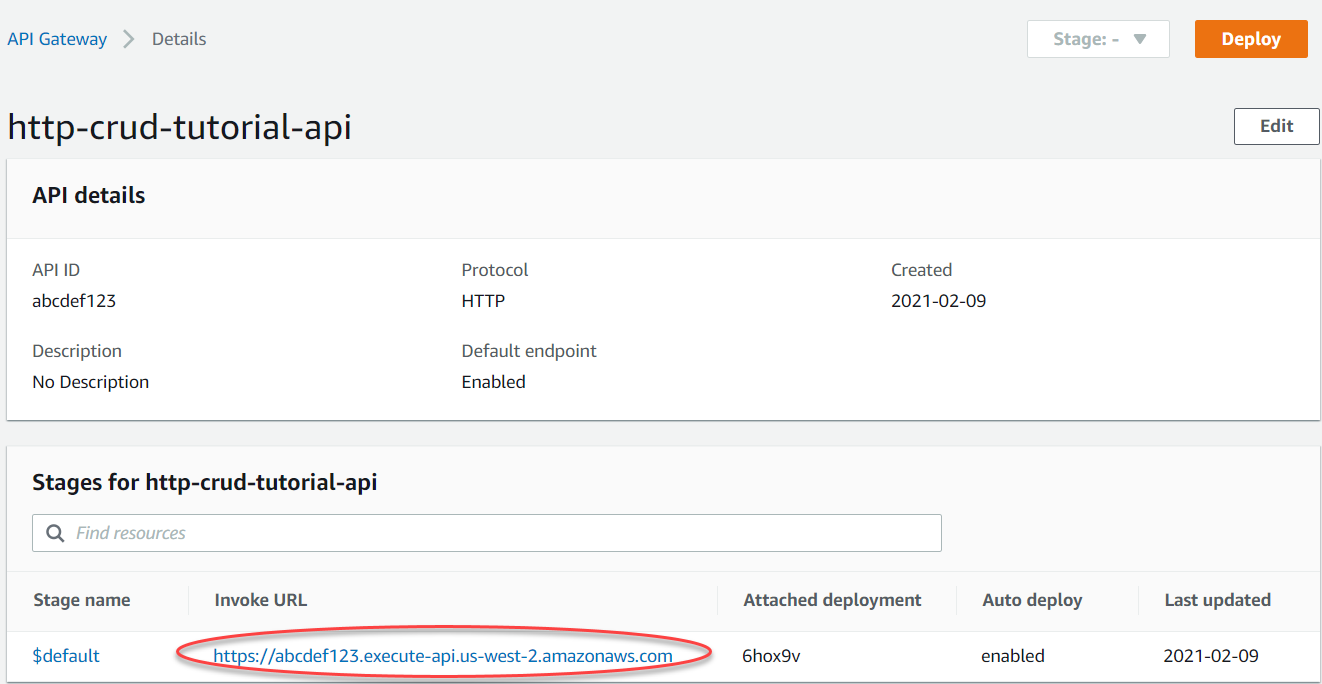
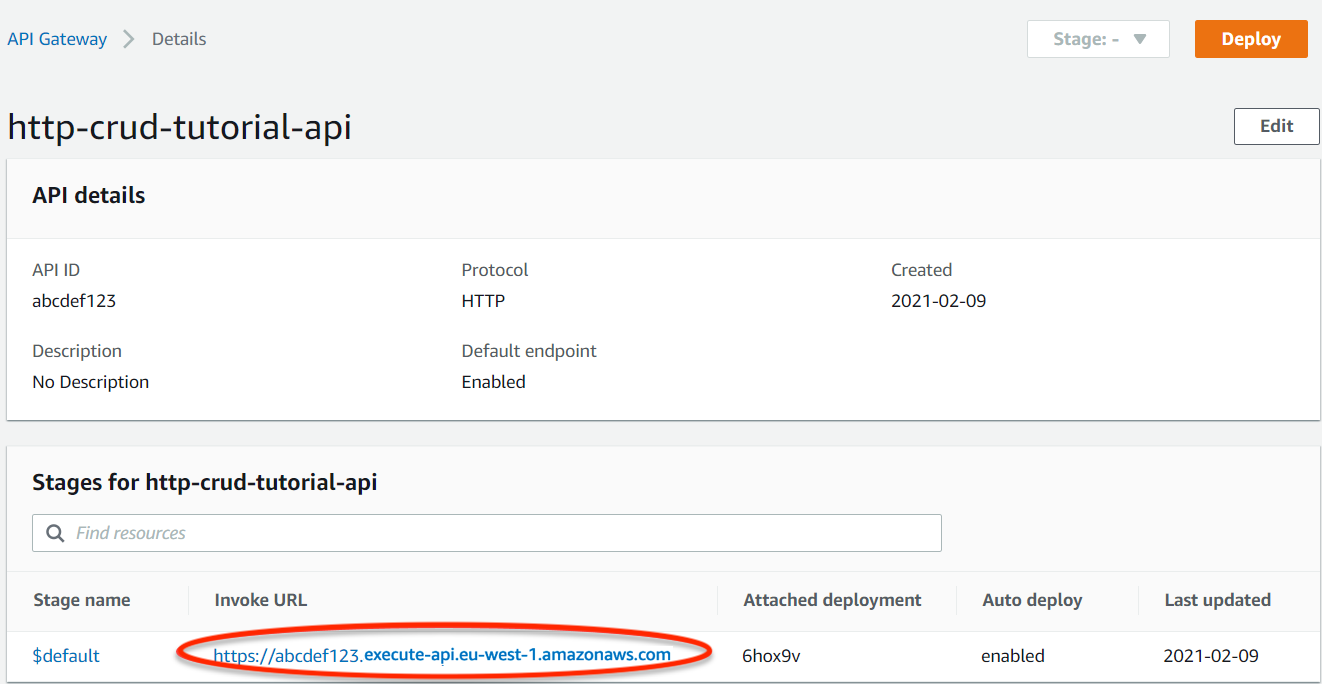
up to clean

Changed region(s): [[0.1241, 0.9211, 0.5582, 1.0], [0.2171, 0.8904, 0.4652, 0.9211]]

diff --git a/content/030_create_a_lambda_function/_index.md b/content/030_create_a_lambda_function/_index.md
@@ -3,22 +3,24 @@ title: "Create a lambda function"
 chapter: false
 weight: 30
 ---
-
+![Lambda to DynamoDB](/images/lambda-ddb-crud.png)
 [**AWS Lambda**](https://docs.aws.amazon.com/lambda/latest/dg/welcome.html)  is a compute service that lets you run code without provisioning or managing servers. Lambda runs your code only when needed and scales automatically, from a few requests per day to thousands per second.
+You create a Lambda function for the backend of your API. 
+This Lambda function **c**reates, **r**eads, **u**pdates, and **d**eletes (**CRUD**) items from DynamoDB. The function uses [**events from API Gateway**](https://docs.aws.amazon.com/apigateway/latest/developerguide/http-api-develop-integrations-lambda.html#http-api-develop-integrations-lambda.proxy-format) to determine how to interact with DynamoDB. 
 
-You create a Lambda function for the backend of your API. This Lambda function **c**reates, **r**eads, **u**pdates, and **d**eletes (**CRUD**) items from DynamoDB. The function uses [**events from API Gateway**](https://docs.aws.amazon.com/apigateway/latest/developerguide/http-api-develop-integrations-lambda.html#http-api-develop-integrations-lambda.proxy-format) to determine how to interact with DynamoDB. For simplicity this tutorial uses a single Lambda function. As a best practice, you should create separate functions for each route. 
-
+For simplicity this tutorial uses a single Lambda function. As a best practice, you should create separate functions for each route. 
 
 
 ##### To create a Lambda function:
 1. Sign in to the Lambda console at [https://console.aws.amazon.com/lambda](https://console.aws.amazon.com/lambda)
-2. Choose Create function.
-3. For Function name, enter `http-crud-tutorial-function`
-4. Under Permissions choose Change default execution role
-5. Select Create a new role from AWS policy templates
-6. For Role name, enter `http-crud-tutorial-role`
-7. For Policy templates, choose Simple microservice permissions. This policy grants the Lambda function permission to interact with DynamoDB. 
-
+2. Choose **Create function**
+3. Select **Author from scratch**
+4. For Function name, enter `http-crud-tutorial-function`
+5. Under Runtime info select **Node.js 14.x**
+6. Under Permissions choose **Change default execution role**
+7. Select **Create a new role from AWS policy templates**
+8. For Role name, enter `http-crud-tutorial-role`
+9. For Policy templates, choose **Simple microservice permissions**. This policy grants the Lambda function permission to interact with DynamoDB. 
 
 {{% notice warning %}}
 
@@ -26,9 +28,11 @@ This workshop uses a managed policy for simplicity. As a best practice, you shou
 
 {{% /notice %}}
 
+![** lambda basic information **](/images/lambda-options.png)
 
-8. Choose Create function
-9. Open index.js in the console's code editor, and replace its contents with the following code. Choose Deploy to update your function. 
+10. Choose **Create function**
+11. Scroll down to the console's Code source editor
+12. **Open index.js**, and replace its contents with the following code. 
 
 ```bash
 const AWS = require("aws-sdk");
@@ -100,3 +104,7 @@ exports.handler = async (event, context) => {
 };
 
 ```
+14. Choose **Deploy** to update your function. 
+
+![** lambda Code Editor **](/images/lambda-code-editor.png)
+

diff --git a/content/080_test_your_api/_index.md b/content/080_test_your_api/_index.md
@@ -4,25 +4,35 @@ chapter: false
 weight: 80
 ---
 
-To make sure that your API is working, you use [**curl**](https://curl.se/)
+To make sure that your API is working, you use [**curl**](https://curl.se/), a command line tool and library for transferring data with URLs.
 
 ##### To get the URL to invoke your API:
-1. Sign in to the API Gateway console at https://console.aws.amazon.com/apigateway
+1. Sign in to the API Gateway console at [https://console.aws.amazon.com/apigateway](https://console.aws.amazon.com/apigateway)
 2. Choose your API.
 3. Note your API's invoke URL. It appears under Invoke URL on the Details page. 
 
 ![After you create your API, the console shows your API's invoke URL.](/images/ddb-invoke-url.png)
 
-4. Copy your API's invoke URL.
+The full URL looks like https://**abcdef123**.execute-api.eu-west-1.amazonaws.com
 
-The full URL looks like https://**abcdef123**.execute-api.eu-west-1.amazonaws.com.
+4. **Copy** your API's invoke URL.
+
 
 ##### To create or update an item:
 
-Use the following command to create or update an item. The command includes a request body with the item's ID, price, and name. 
+5. Connect to Cloud9 brwosing to [**Cloud9**](https://console.aws.amazon.com/cloud9).
+6. **Open IDE** 
+7. In the following command replace "https://**abcdef123**.execute-api.eu-west-1.amazonaws.com" with your Invoke URL from step 4 to set a variable with the **Invoke URL**
+```bash
+#Replace URL
+set INVOKE_URL="https://**abcdef123**.execute-api.eu-west-1.amazonaws.com"
+
+```
+
+create or update an item. The command includes a request body with the item's ID, price, and name. 
 
 ```bash
-    curl -v -X "PUT" -H "Content-Type: application/json" -d "{\"id\": \"abcdef234\", \"price\": 12345, \"name\": \"myitem\"}" https://abcdef123.execute-api.us-west-2.amazonaws.com/items
+    curl -v -X "PUT" -H "Content-Type: application/json" -d "{\"id\": \"abcdef234\", \"price\": 12345, \"name\": \"myitem\"}" $INVOKE_URL/items
 ```
 
 ##### To get all items:
@@ -30,23 +40,23 @@ Use the following command to create or update an item. The command includes a re
 Use the following command to list all items.
 
 ```bash
-    curl -v https://abcdef123.execute-api.us-west-2.amazonaws.com/items
+    curl -v $INVOKE_URL/items
 ```
 
 ##### To get an item:
 Use the following command to get an item by its ID.
 
 ```bash
-    curl -v https://abcdef123.execute-api.us-west-2.amazonaws.com/items/abcdef234
+    curl -v $INVOKE_URL/items/abcdef234
 ```
 
 ##### To delete an item:
 
 1. Use the following command to delete an item.
 ```bash
-    curl -v -X "DELETE" https://abcdef123.execute-api.us-west-2.amazonaws.com/items/abcdef234
+    curl -v -X "DELETE" $INVOKE_URL/items/abcdef234
 ```
 2. Get all items to verify that the item was deleted.
 ```bash
-    curl -v https://abcdef123.execute-api.us-west-2.amazonaws.com/items
+    curl -v $INVOKE_URL/items
 ```

diff --git a/content/050_create_routes/_index.md b/content/050_create_routes/_index.md
@@ -3,26 +3,30 @@ title: "Create routes"
 chapter: false
 weight: 50
 ---
+![HTTP API gateway](/images/http-api-lambda.png)
 
+[**Routes**](https://docs.aws.amazon.com/apigateway/latest/developerguide/http-api-develop-routes.html) are a way to send incoming API requests to backend resources. Routes consist of two parts: an HTTP method and a resource path, for example, GET /items. For this example API, we create four routes:
 
-Routes are a way to send incoming API requests to backend resources. Routes consist of two parts: an HTTP method and a resource path, for example, GET /items. For this example API, we create four routes:
+**GET** `/items/{id}`
 
-    GET /items/{id}
+**GET** `/items`
 
-    GET /items
+**PUT** `/items`
 
-    PUT /items
-
-    DELETE /items/{id}
-
+**DELETE** `/items/{id}`
 ##### To create routes:
-1. Sign in to the API Gateway console at https://console.aws.amazon.com/apigateway
-2. Choose your API.
-3. Choose Routes.
+1. Sign in to the API Gateway console at [https://console.aws.amazon.com/apigateway](https://console.aws.amazon.com/apigateway)
+2. Choose your API (http-crud-tutorial-api)
+3. On the left panel choose Routes 
 4. Choose Create.
-5. For Method, choose GET.
-6. For the path, enter /items/{id}. The {id} at the end of the path is a path parameter that API Gateway retrieves from the request path when a client makes a request.
-7. Choose Create.
-8. Repeat steps 4-7 for GET /items, DELETE /items/{id}, and PUT /items.
+![Create routes](/images/http-api-create-route.png)
 
-![Your API has routes for GET /items, GET /items/{id},DELETE /items/{id}, and PUT /items.](/images/ddb-create-routes.png)
+5. For **Method**, choose **GET**
+![get route](/images/http-api-get-route.png)
+6. For the **path**, enter `/items/{id}`. The {id} at the end of the path is a path parameter that API Gateway retrieves from the request path when a client makes a request.
+7. Choose **Create**
+8. **Repeat** steps 4-7 for **GET** `/items`, **DELETE** `/items/{id}`, and **PUT** `/items`.
+![delete route](/images/http-api-delete-route.png)
+9. Confirm all routes are created
+
+![Your API has routes for GET /items, GET /items/{id},DELETE /items/{id}, and PUT /items.](/images/http-api-routes.png)

diff --git a/content/070_attach_your_integration_to_routes/_index.md b/content/070_attach_your_integration_to_routes/_index.md
@@ -4,22 +4,21 @@ chapter: false
 weight: 70
 ---
 
+![HTTP API to DDB](/images/ddb-crud.png)
 
-
-For this example API, you use the same Lambda integration for all routes. After you attach the integration to all of the API's routes, your Lambda function is invoked when a client calls any of your routes.
+For this example API, you use the same [**AWS Lambda integration**](https://docs.aws.amazon.com/apigateway/latest/developerguide/http-api-develop-integrations-lambda.html) for all routes. After you attach the integration to all of the API's routes, your Lambda function is invoked when a client calls any of your routes.
 
 ##### To attach integrations to routes
 
-1. Sign in to the API Gateway console at https://console.aws.amazon.com/apigateway
-2. Choose your API.
-3. Choose Integrations.
-4. Choose a route.
-5. Under Choose an existing integration, choose http-crud-tutorial-function.
-6. Choose Attach integration.
-7. Repeat steps 4-6 for all routes.
+1. Sign in to the API Gateway console at [https://console.aws.amazon.com/apigateway](https://console.aws.amazon.com/apigateway)
+2. Choose your API (**http-crud-tutorial-api**)
+3. Choose **Integrations**
+4. Choose a route
+5. Under Choose an existing integration, choose `http-crud-tutorial-function`
+![choose integration](/images/http-api-choose-integration.png)
+6. Choose **Attach integration**
+7. **Repeat** steps 4-6 for all routes. All routes show that an AWS Lambda integration is attached.
 
-All routes show that an AWS Lambda integration is attached.
+![The console shows AWS Lambda on all routes to indicate that your integration is attached.](/images/http-api-all-integration.png)
 
-![The console shows AWS Lambda on all routes to indicate that your integration is attached.](/images/ddb-attach-integrations.png)
-
-Now that you have an HTTP API with routes and integrations, you can test your API.
+Now that you have an HTTP API with routes and integrations, you can **test your API**.

diff --git a/content/060_create_an_integration/_index.md b/content/060_create_an_integration/_index.md
@@ -3,18 +3,19 @@ title: "Create an integration"
 chapter: false
 weight: 60
 ---
+![HTTP API gateway](/images/http-api-lambda.png)
 
-You create an integration to connect a route to backend resources. For this example API, you create one Lambda integration that you use for all routes.
+You create an [**integration**](https://docs.aws.amazon.com/apigateway/latest/developerguide/http-api-develop-integrations-http.html) to connect a route to backend resources. For this example API, you create one Lambda integration that you use for all routes.
 
 ##### To create an integration
 1. Sign in to the API Gateway console at https://console.aws.amazon.com/apigateway
-2. Choose your API.
-3. Choose Integrations.
-4. Choose Manage integrations and then choose Create.
+2. Choose your API (**http-crud-tutorial-api**)
+3. Choose **Integrations**
+4. Choose **Manage integrations** and then choose **Create**
+![manage integration](/images/http-api-manage-integration.png)
 5. Skip Attach this integration to a route. You complete that in a later step.
-6. For Integration type, choose Lambda function.
-7. For Lambda function, enter 
-```bash
-     http-crud-tutorial-function
-```
-8. Choose Create.
+6. For Integration type, choose **Lambda function**
+7. For Lambda function, enter `http-crud-tutorial-function`
+![integration target](/images/http-api-integration-target.png)
+
+8. Choose **Create**

diff --git a/content/020_createadynamodbtable/_index.md b/content/020_createadynamodbtable/_index.md
@@ -4,6 +4,9 @@ chapter: false
 weight: 20
 ---
 
+
+![dyanmodb](/images/ddb.png)
+
 [**Amazon DynamoDB**](https://docs.aws.amazon.com/amazondynamodb/latest/developerguide/Introduction.html) is a fully managed NoSQL database service that provides fast and predictable performance with seamless scalability. DynamoDB lets you offload the administrative burdens of operating and scaling a distributed database so that you don't have to worry about hardware provisioning, setup and configuration, replication, software patching, or cluster scaling. 
 
 With Amazon DynamoDB, you can create database [**tables**](https://docs.aws.amazon.com/amazondynamodb/latest/developerguide/WorkingWithTables.Basics.html) that can store and retrieve any amount of data and serve any level of request traffic.

diff --git a/content/040_create_an_http_api/_index.md b/content/040_create_an_http_api/_index.md
@@ -3,6 +3,9 @@ title: "Create an http API"
 chapter: false
 weight: 40
 ---
+![HTTP API gateway](/images/http-api-client.png)
+HTTP APIs enable you to create RESTful APIs with lower latency and lower cost than REST APIs.
+You can use HTTP APIs to send requests to AWS Lambda functions or to any publicly routable HTTP endpoint. 
 
 The HTTP API provides an HTTP endpoint for your Lambda function. In this step, you create an empty API. In the following steps, you configure routes and integrations to connect your API and your Lambda function. 
 

diff --git a/content/010_access_to_cloud9/_index.md b/content/010_access_to_cloud9/_index.md
@@ -24,7 +24,7 @@ The following diagram shows a high-level overview of how AWS Cloud9 works.
 
 ...and today you will use it to deploy and test your API!
 
-Connect to Cloud9 brwosing to [** Cloud9 **](https://console.aws.amazon.com/cloud9) 
+Connect to Cloud9 brwosing to [**Cloud9**](https://console.aws.amazon.com/cloud9) 
 
 In the console anter making sure you are in the right Region (top right) search for the button **Create environment** 
 
